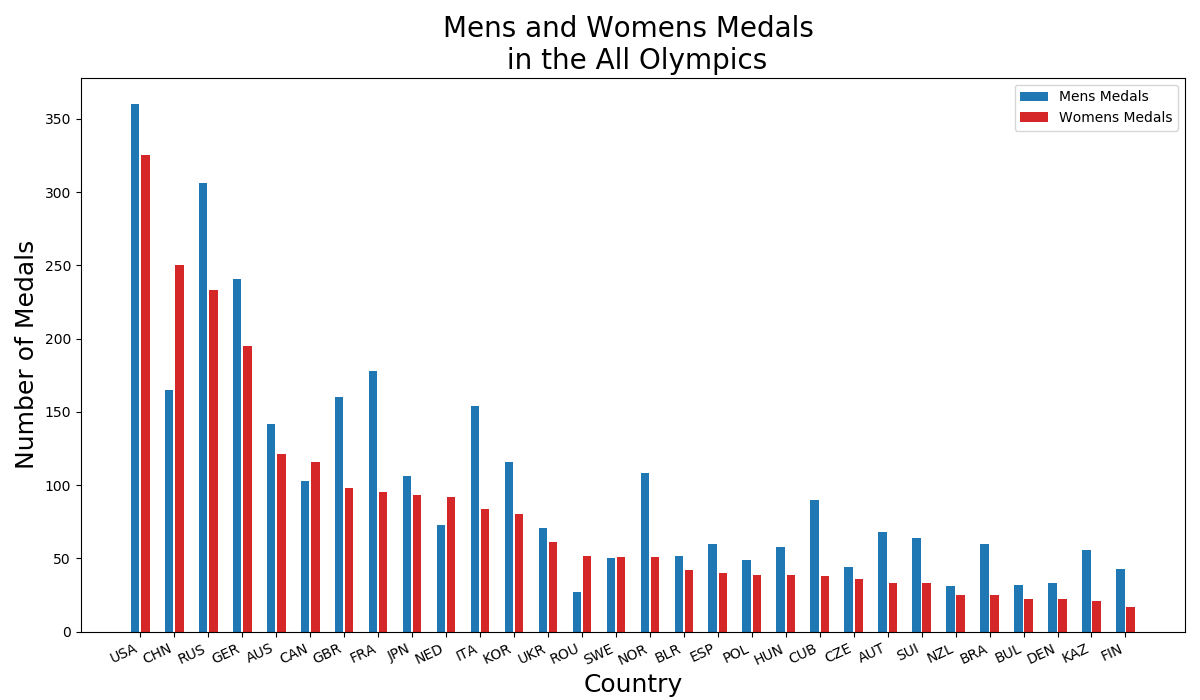
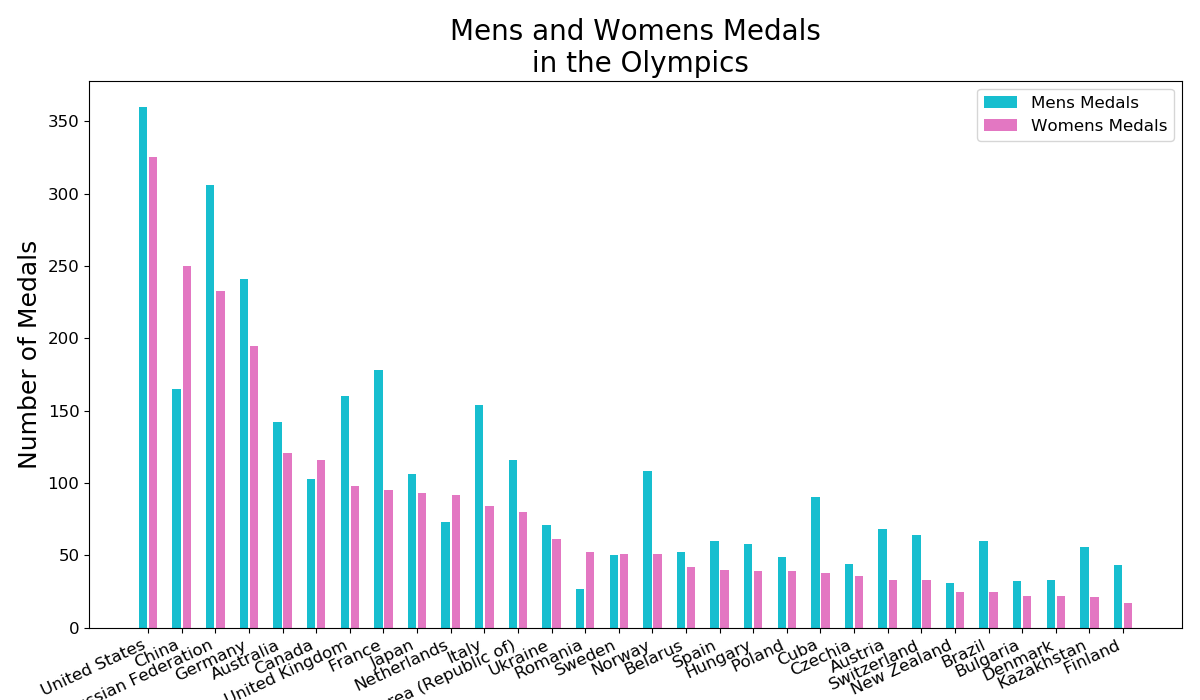
correct math error on mixed gender events

diff --git a/src/winter_medals.py b/src/winter_medals.py
@@ -7,6 +7,7 @@ import medals_plots
 from hdi import PipelineHDI
 
 plt.style.use('tableau-colorblind10')
+plt.rc('font', size=12)
 
 
 class GenderDataFrames(object):
@@ -56,7 +57,7 @@ class GenderDataFrames(object):
         after and excluding countries with less than 50 medals
     '''
 
-    def __init__(self, file, season, noc_code_dict):
+    def __init__(self, file, season, code_dict):
         self.file = file
         self.noc_code_dict = code_dict
         self.season = season
@@ -79,10 +80,11 @@ class GenderDataFrames(object):
             df = pd.read_excel(self.file)
             df.drop(['Medal Rank', 'Age of Athlete'], axis=1, inplace=True)
             df = pd.get_dummies(df, columns=['Gender'])
-            return df
         else:
+            # Additional cleaning required because all olympics csv includes
+            # athlete information
             df = pd.read_csv(self.file)
-            df = self.country_codes(df)
+            df = self.add_country_column(df)
             df.drop(['Name', 'Age', 'Height', 'Weight', 'Team', 'Games',
                      'Season', 'City', 'NOC'], axis=1, inplace=True)
             df.rename(columns={'Sex': 'Gender'}, inplace=True)
@@ -92,7 +94,7 @@ class GenderDataFrames(object):
             df = pd.get_dummies(df, columns=['Gender'])
             df.rename(columns={'Gender_M': 'Gender_Men',
                                'Gender_F': 'Gender_Women'}, inplace=True)
-            return df
+        return df
 
     def create_year_df(self, ignore_mixed=True):
         '''Create a DataFrame grouped by Year'''
@@ -105,11 +107,19 @@ class GenderDataFrames(object):
             year_df['mixed_events'] = np.where(year_df['Gender_Mixed'] > 0,
                                                1, 0)
         else:
+            # all olympics csv has medals listed by athlete, events
+            # with both male and female medalists counted as mixed
             year_df['mixed_events'] = np.where(year_df['Gender_Women'] > 0,
                                                np.where(year_df['Gender_Men']
                                                         > 0, 1, 0), 0)
-        year_df['mens_events'] = np.where(year_df['Gender_Men'] > 0, 1, 0)
-        year_df['womens_events'] = np.where(year_df['Gender_Women'] > 0, 1, 0)
+        # only count events for men or women if no medals are listed
+        # under the opposite gender
+        year_df['mens_events'] = np.where(year_df['Gender_Men'] > 0,
+                                          np.where(year_df['Gender_Women']
+                                                   == 0, 1, 0), 0)
+        year_df['womens_events'] = np.where(year_df['Gender_Women'] > 0,
+                                            np.where(year_df['Gender_Men']
+                                                     == 0, 1, 0), 0)
         year_df = year_df[cols_list]
         year_df.reset_index(inplace=True)
         year_events_df = year_df.groupby('Year').sum()
@@ -140,12 +150,12 @@ class GenderDataFrames(object):
         country_df['%_womens_medals'] = (country_df[cols_list].sum(axis=1) /
                                          country_df['total_medals']) * 100
         over_df = country_df[country_df['total_medals'] >= min_medals]
-        sorted_df = over_df.sort_values(by='womens_medals', ascending=False)\
-            .copy()
+        sorted_df = over_df.sort_values(by='womens_medals',
+                                        ascending=False).copy()
         return sorted_df
 
     def reduce_medal_count(self, df):
-        '''Normalize the medal count in data other that contains a list
+        '''Normalize the medal count in data that contains a list
         of medals by athlete instead of event. Reduce the medal count
         to one medal per country per event to avoid biasing results to
         team events
@@ -156,13 +166,17 @@ class GenderDataFrames(object):
             = np.where(medals_total_df['Gender_Men'] > 0,
                        np.where(medals_total_df['Gender_Women'] > 0, 1, 0), 0)
         medals_total_df['Gender_Men']\
-            = np.where(medals_total_df['Gender_Men'] > 0, 1, 0)
+            = np.where(medals_total_df['Gender_Men'] > 0,
+                       np.where(medals_total_df['Gender_Women'] == 0, 1, 0),
+                       0)
         medals_total_df['Gender_Women']\
-            = np.where(medals_total_df['Gender_Women'] > 0, 1, 0)
+            = np.where(medals_total_df['Gender_Women'] > 0,
+                       np.where(medals_total_df['Gender_Men'] == 0, 1, 0),
+                       0)
         medals_total_df.reset_index(inplace=True)
         return medals_total_df
 
-    def country_codes(self, df):
+    def add_country_column(self, df):
         '''Create a 'Country' column by comparing 'NOC' column with
         noc_code_dict
         '''
@@ -223,13 +237,13 @@ def correlation(codes, year, df_obj):
             files.append(filename)
     years = [2014, 2016]
     multi_country_hdi = PipelineHDI(files, codes, years)
-    multi_2014_hdi_df = multi_country_hdi.df[multi_country_hdi.df
+    multi_year_hdi_df = multi_country_hdi.df[multi_country_hdi.df
                                              ['#date+year'] == year]
     df_temp = df_obj.country_medals_df.copy()
     df_temp.reset_index(inplace=True)
     country_medals_dict = df_temp.set_index('Country')\
         .to_dict()['%_womens_medals']
-    merge_dict_df = multi_2014_hdi_df.copy()
+    merge_dict_df = multi_year_hdi_df.copy()
     merge_dict_df[f'{df_obj.season}_medals_%_women'] =\
         merge_dict_df['#country+name'].map(country_medals_dict)
     corr_df = merge_dict_df.corr()[f'{df_obj.season}_medals_%_women']
@@ -271,10 +285,11 @@ if __name__ == '__main__':
         '../data/summer_olympics/athlete_events.csv', 'all', code_dict
         )
 
-    # make_all_plots(winter_dataframes, False)
-    # make_all_plots(all_olympics_dataframes, False)
+    make_all_plots(winter_dataframes, False)
+    make_all_plots(all_olympics_dataframes, False)
     medals_plots.plot_bar_year_overlay(all_olympics_dataframes,
-                                       winter_dataframes, True)
+                                       winter_dataframes, False)
+    medals_plots.plot_bar_country(winter_dataframes, False)
 
     female_indicator_codes = [23906, 24106, 48706, 120606,
                               123306, 123506, 136906, 169706, 169806,
@@ -290,17 +305,17 @@ if __name__ == '__main__':
                    'Female Gross\nNational Income', 136906: 'Female HDI',
                    24106: 'Mean Female\nSchooling', 169706:
                    'Unemployment\nFemale:Male'}
-    # corr_ax = medals_plots.plot_hdi_corrs(hdi_list, winter_corr,
-    #                                       labels_dict, 'winter',
-    #                                       save_on=False)
-    # medals_plots.plot_hdi_corrs(hdi_list, all_olympics_corr, labels_dict,
-                                # 'all', corr_ax, save_on=True)
+    corr_ax = medals_plots.plot_hdi_corrs(hdi_list, winter_corr,
+                                          labels_dict, 'winter',
+                                          save_on=False)
+    medals_plots.plot_hdi_corrs(hdi_list, all_olympics_corr, labels_dict,
+                                'all', corr_ax, save_on=False)
 
     x = all_olympics_hdi['all_medals_%_women']
     y = all_olympics_hdi[169706]
-    label_list = ['Female GNI', '% Winter Olympic Medals']
-    # medals_plots.scatter_corr(x, y, label_list,
-                            #   save_as='../images/winter/GNI-scatter.png',
-                            #   save_on=False)
-
+    label_list = ['Unemployment F:M', '% Womens Olympic Medals']
+    medals_plots.scatter_corr(x, y, label_list,
+                              save_as='../images/all/Unemp-scatter.png',
+                              save_on=True)
     plt.show()
+    print(stats.pearsonr(x, y))

diff --git a/src/medals_plots.py b/src/medals_plots.py
@@ -4,6 +4,7 @@ import matplotlib.lines as mlines
 import numpy as np
 
 plt.style.use('tableau-colorblind10')
+plt.rc('font', size=12)
 
 
 def percent_plot(x, y, season, ax=None, **plt_kwargs):
@@ -64,8 +65,8 @@ def gender_counts_plot(x, y, labels, ax=None, **plt_kwargs):
     if ax is None:
         fig, ax = plt.subplots(1, figsize=(12, 7))
     ax.bar(x, y, **plt_kwargs)
-    ax.set_title(f'Mens and Womens {labels[1]}\n in' +
-                 f' the Olympics', fontsize=20)
+    ax.set_title(f'Mens and Womens {labels[1]} in' +
+                 f' the\nWinter Olympics since 1994', fontsize=20)
     ax.set_xlabel(labels[2], fontsize=18)
     ax.set_ylabel(f'Number of {labels[1]}', fontsize=18)
     ax.legend()
@@ -105,8 +106,9 @@ def plot_percent_year(df_obj, save_on=True):
 
 
 def plot_bar_year_overlay(df_obj, df_obj2, save_on=True):
-    '''Create bar plots of mens/womens and mens/womens/mixed events by
-    year for the dataframe object
+    '''Create bar plots of mens/womens events by year for the dataframe
+    objects, all olympics should be first and winter should be second
+    for the desired overlay
 
     Parameters
     ----------
@@ -131,7 +133,7 @@ def plot_bar_year_overlay(df_obj, df_obj2, save_on=True):
     ax3 = gender_counts_plot(year, y3_a, labels, color='tab:blue',
                              label='Summer Mens Events')
     ax3 = gender_counts_plot(year+1, y3_b, labels, ax3, color='tab:red',
-                               label='Summer Womens Events')
+                             label='Summer Womens Events')
     y3_c = df_obj2.annual_medals_df['mens_events']
     y3_d = df_obj2.annual_medals_df['womens_events']
     year2 = df_obj2.annual_medals_df.index
@@ -139,7 +141,7 @@ def plot_bar_year_overlay(df_obj, df_obj2, save_on=True):
     ax3 = gender_counts_plot(year2, y3_c, labels, ax3, color='tab:cyan',
                              label='Winter Mens Events')
     ax3 = gender_counts_plot(year2+1, y3_d, labels, ax3, color='tab:pink',
-                               label='Winter Womens Events')
+                             label='Winter Womens Events')
     if save_on:
         plt.savefig('../images/all/summer-and-winter-events-overlay.png')
 
@@ -148,6 +150,7 @@ def plot_bar_year_dual(df_obj, save_on=True):
     '''Create bar plots of mens/womens and mens/womens/mixed events by
     year for the dataframe object with an overlay of the percent womens
     events
+
     Parameters
     ----------
     df_obj: GenderDataFrames object
@@ -189,7 +192,6 @@ def plot_bar_year_dual(df_obj, save_on=True):
                        label='Percent Womens Events')
     if save_on:
         plt.savefig(f'../images/{df_obj.season}/mix-count-year-plot.png')
-
 
 
 def plot_bar_country(df_obj, save_on=True):
@@ -299,7 +301,7 @@ def plot_hdi_corrs(hdi_list, corr_df, labels_dict, season, ax=None,
                 multialignment='center', fontsize=14)
     ax.annotate('p-value\n0.49', (0.62, -0.23),
                 multialignment='center', fontsize=14)
-    ax.annotate('p-value\n0.02', (1.02, -0.4),
+    ax.annotate('p-value\n0.03', (1.02, -0.38),
                 multialignment='center', fontsize=14)
     plt.tight_layout()
     if save_on:
@@ -331,7 +333,7 @@ def scatter_corr(x, y, labels_list, save_as=None, save_on=False):
     None
     '''
     fig, ax = plt.subplots(1)
-    ax.scatter(x, y, color='tab:pink')
+    ax.scatter(x, y, color='tab:red')
     trendline = np.polyfit(x, y, 1)
     trendline_formula = np.poly1d(trendline)
     ax.set_ylabel(labels_list[0], fontsize=18)

diff --git a/src/hdi.py b/src/hdi.py
@@ -49,13 +49,13 @@ class PipelineHDI(object):
         '''
         df = pd.read_csv('../data/' + file)
         country = df.loc[0, '#country+name']
-        table = pd.pivot_table(df, values='#indicator+value+num',
-                               index=['#country+name', '#date+year'],
-                               columns='#indicator+code',
-                               aggfunc=np.sum)
+        table_df = pd.pivot_table(df, values='#indicator+value+num',
+                                  index=['#country+name', '#date+year'],
+                                  columns='#indicator+code',
+                                  aggfunc=np.sum)
         if self.indicator_dict is None:
             self.create_dict(df)
-        women_df = table[self.codes]
+        women_df = table_df[self.codes]
         women_years_df = women_df.loc[(country, self.years), ]
         women_years_df.reset_index(inplace=True)
         return women_years_df
@@ -70,7 +70,7 @@ class PipelineHDI(object):
                 self.df = self.create_country_df(elem).copy()
             else:
                 multi_df = self.df
-                new_df = self.create_country_df(elem)
+                new_df = self.create_country_df(elem).copy()
                 self.df = multi_df.append(new_df, ignore_index=True)
         return self.df
 

diff --git a/README.md b/README.md
@@ -47,7 +47,7 @@ _showing first five rows_
 
 These dataframes were used to create the following plots, which show the increase in the percent of events for women over time, the comparison of men's and women's events over time and the medals for men's and women's events for the countries with at least 50 medals.
 
-## Winter Olympics Gender Equality Plots
+## Winter Olympics Gender Equality
 ![img](images/winter/no-mix-count-year-plot.png)
 
 The largest spike in the percent of events including women occurred in 1960 with a 12% increase. The 1960 Winter Olympics were held in Squaw Valley, CA and the 1960s were the peak of the feminism movement in the United States. Unfortunately, it is likely that the timing of this spike is just coincidental. The 1960 olympics added biathlon to the men's events and four distances of speed skating to the women's events. In order to save money the Olympic Committee decided not to build a bobsled run, causing the men to lose three medal events. This reduction in the men's events, along with the addition of the women's events, is what caused the large spike. 
